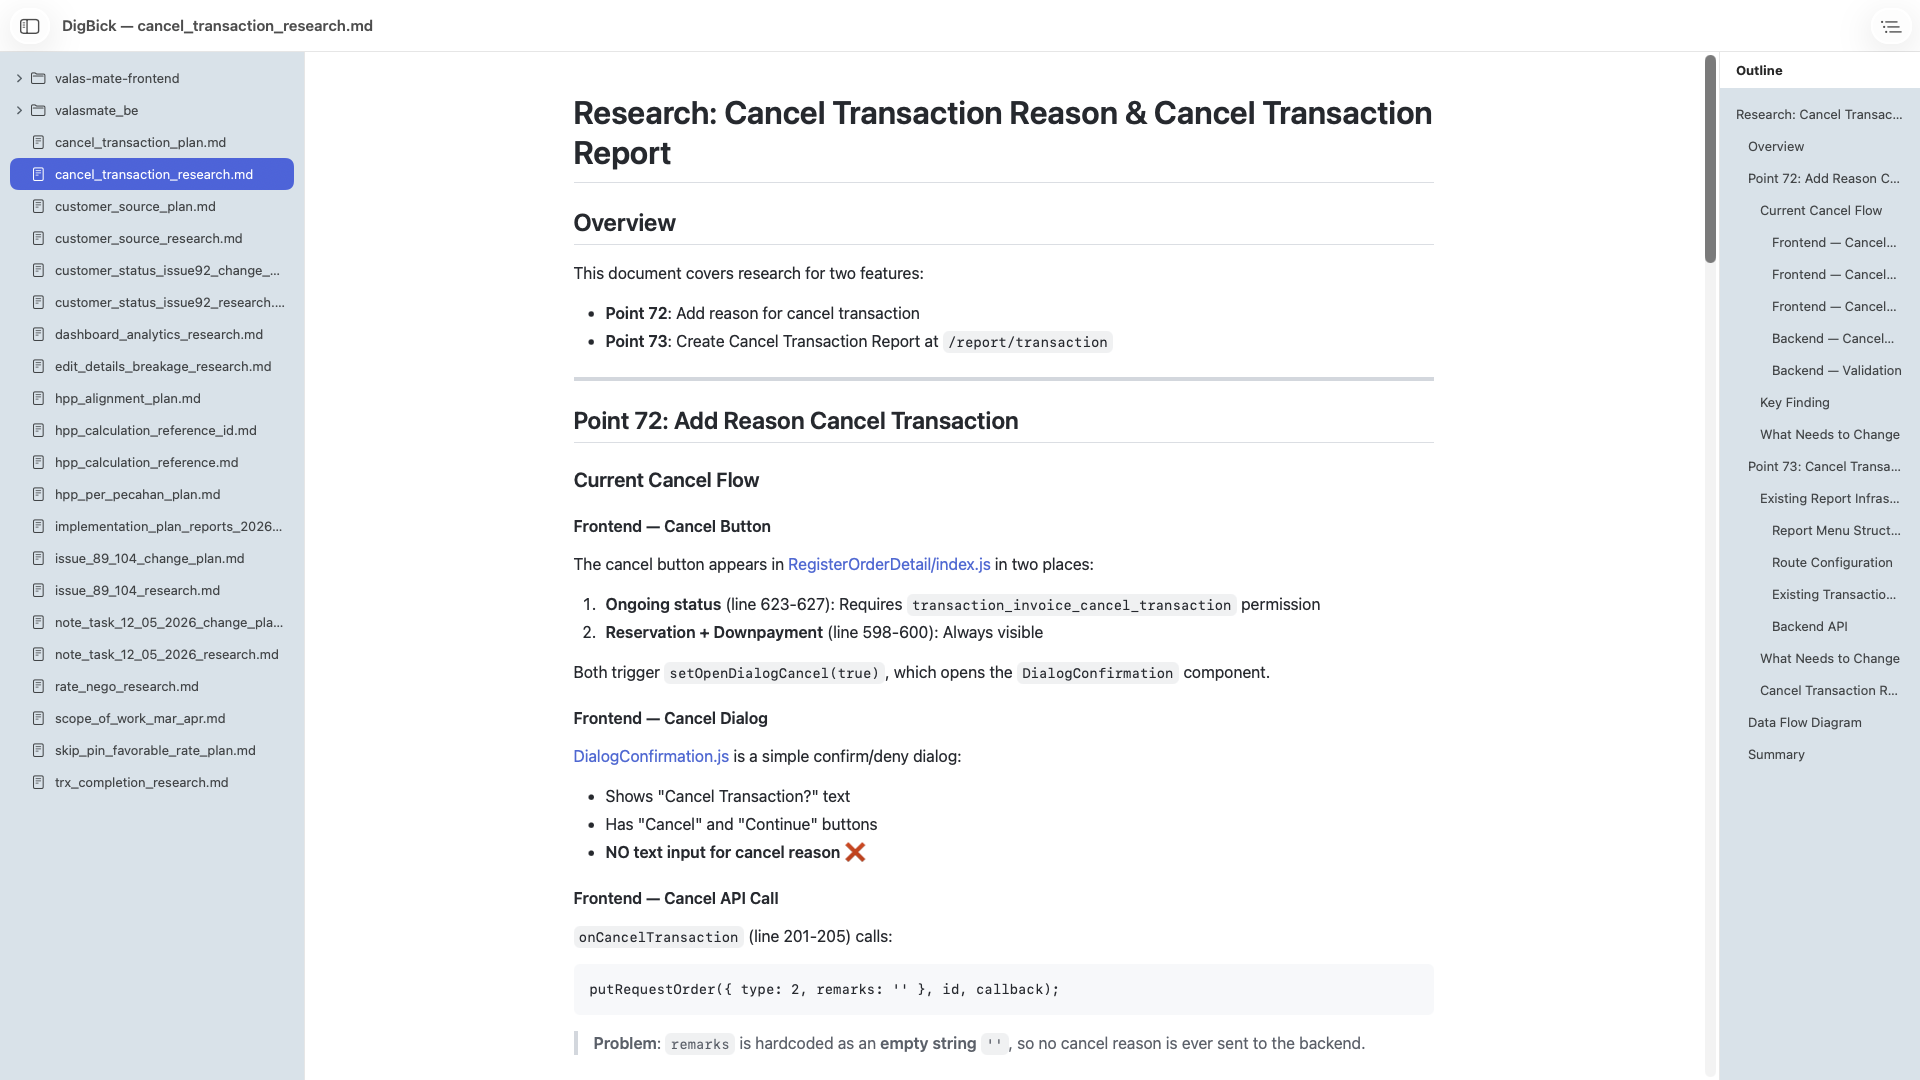
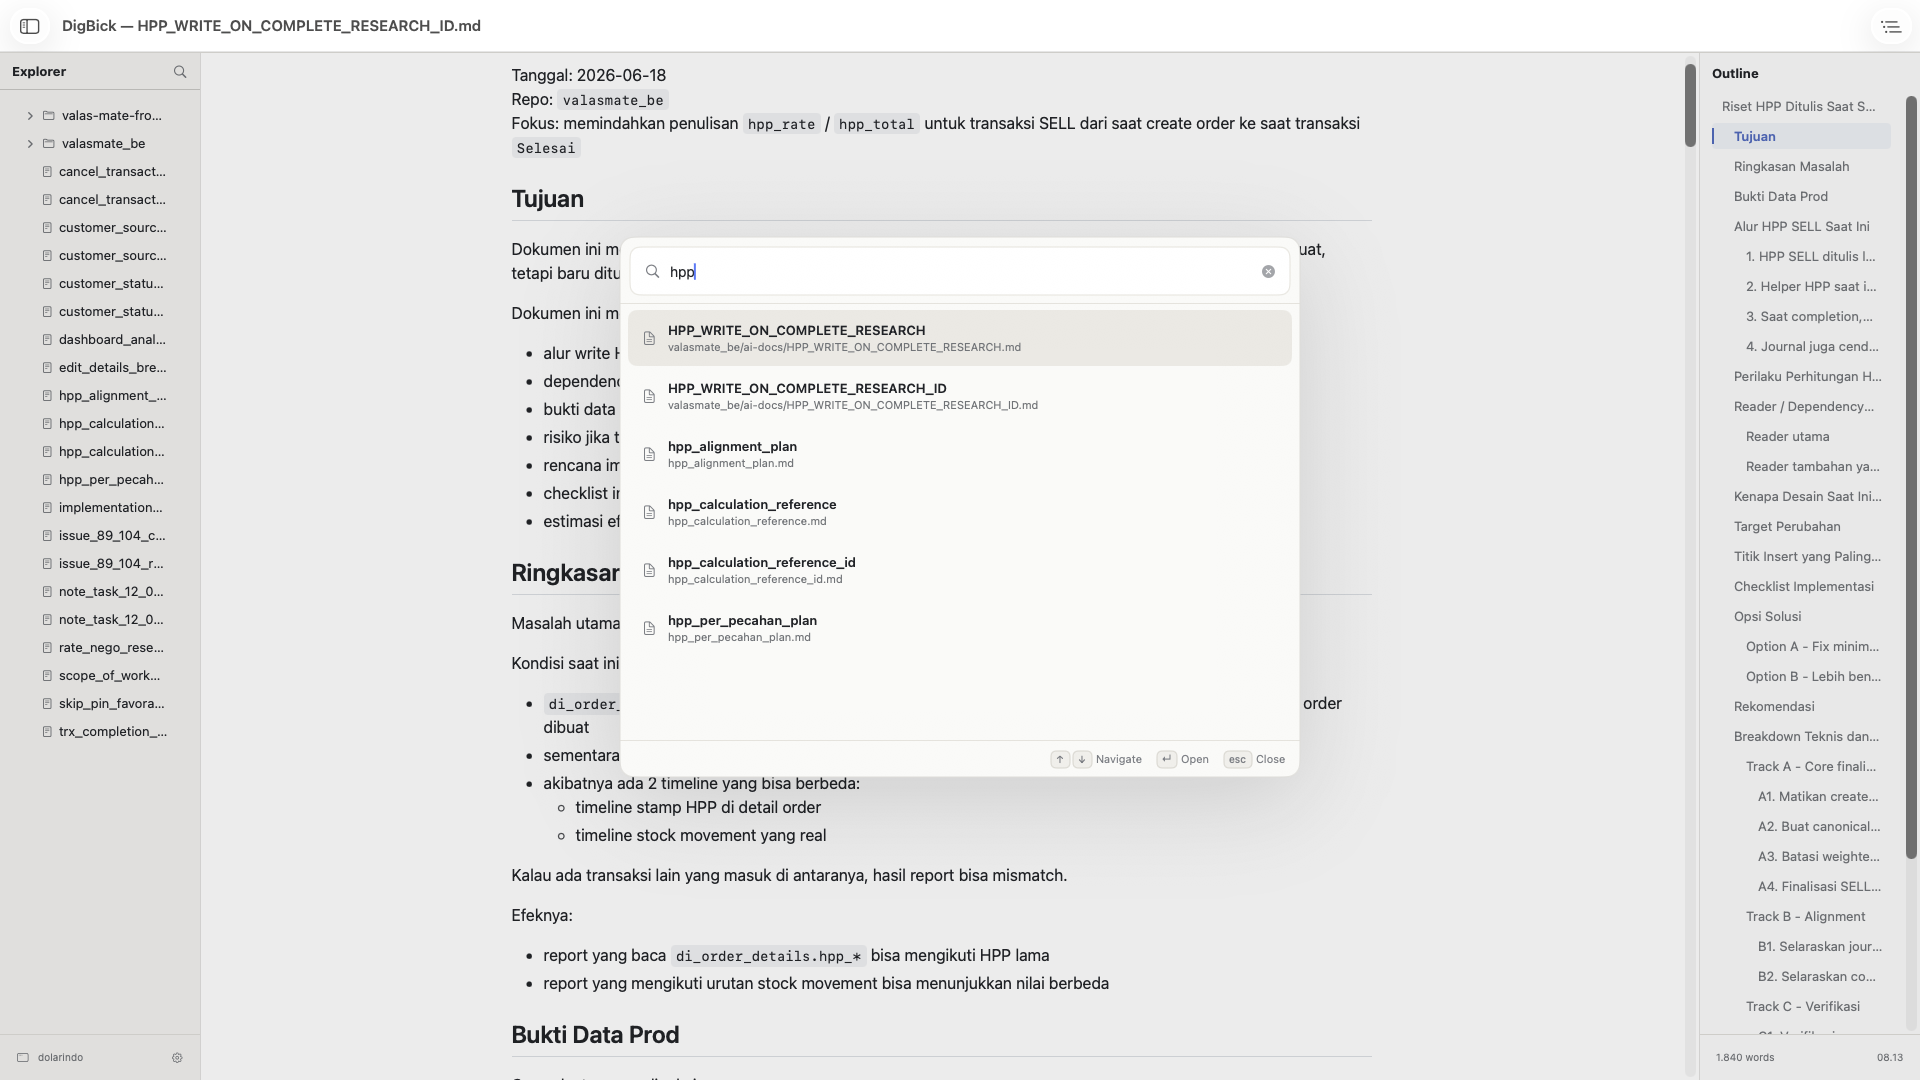
docs: update README and screenshot
- Rewrite README to cover all current features
- Add Quick Open (Cmd+P) and Find in Document (Cmd+F) documentation
- Add keyboard shortcuts reference table
- Document workspace file tree and search behavior
- Add scroll memory, reading mode, and collapsible folder notes
- Update screenshot

diff --git a/README.md b/README.md
@@ -1,52 +1,99 @@
 # DigBick
 
-A tiny Markdown viewer for macOS.
+A fast, beautiful Markdown viewer for macOS.
+
+![DigBick Screenshot](screenshot.png)
 
 ## What it is
 
 DigBick is Preview.app for Markdown.
 
-No vaults.  
-No plugins.  
-No editing.  
-Just Markdown.
+No vaults. No plugins. No editing. No AI. No sync. No telemetry.  
+Just Markdown, rendered beautifully.
 
-![DigBick Screenshot](screenshot.png)
+---
 
 ## Features
 
-- **Viewer Only:** No editing, no plugins, no vaults. Just pure Markdown.
-- **Formats:** Open `.md`, `.markdown`, and `.mdown`.
-- **Workspaces:** Drag a folder or press `⇧⌘O` to open a file tree sidebar.
-- **Table of Contents:** Outline sidebar with clickable headings (toggle with `⌘T`).
-- **Beautiful Rendering:** GitHub-inspired Markdown styling with dark mode support.
-- **Local Assets:** Perfectly resolves local images relative to your document.
-- **Auto Reload:** Instantly updates when the file is modified externally.
-- **Native Polish:** Lightweight macOS interface, fast search, and zero telemetry.
+### Core Viewer
+- **Viewer Only** — no editing, no plugins, no vaults
+- **Formats** — opens `.md`, `.markdown`, and `.mdown`
+- **GitHub-style rendering** — clean typography, code blocks, tables, task lists
+- **Dark mode** — full system dark/light mode support
+- **Local assets** — resolves local images relative to the document
+- **Auto reload** — instantly updates when the file changes externally
+
+### Workspace
+- **File sidebar** — open any folder as a workspace (`⇧⌘O`), browse the Markdown file tree
+- **Collapsible folders** — tree defaults collapsed; expand manually, state is preserved
+- **Table of Contents** — outline sidebar with clickable headings (`⌘T`)
+- **Scroll memory** — remembers your scroll position per file
+
+### Search
+- **Quick Open** (`⌘P`) — command palette to find any Markdown file by name or path
+  - Type a filename to search by name
+  - Type a `/` to search by relative path (e.g. `docs/setup`)
+  - Keyboard navigation: `↑ ↓` move, `↵` open, `esc` close
+- **Find in Document** (`⌘F`) — search text inside the currently open rendered document
+  - `⌘G` / `⇧⌘G` to jump between matches
+  - `esc` closes the find bar and clears highlights
+
+### Design
+- Warm neutral macOS palette — not a web app wrapped in a window
+- Responsive Quick Open palette scales to window and fullscreen size
+- Reading Mode — strips all sidebars for focused reading
+- Zero telemetry, zero analytics, zero network requests
+
+---
 
 ## Getting Started
 
 ### Quick Build (No Xcode Required)
-If you have the macOS Command Line Tools installed, you can compile the app instantly:
+
+If you have macOS Command Line Tools installed:
 
 ```sh
 ./build.sh
 ```
-This will generate `DigBick.app` right in the folder. Double-click it to run!
+
+This generates `DigBick.app` in the project folder. Double-click to run.
 
 ### Xcode Build
-You can also open the included `DigBick.xcodeproj` in Xcode, select the `DigBick` scheme targeting "My Mac", and press `⌘R`.
+
+Open `DigBick.xcodeproj`, select the `DigBick` scheme targeting **My Mac**, and press `⌘R`.
+
+---
+
+## Keyboard Shortcuts
+
+| Shortcut | Action |
+|---|---|
+| `⌘P` | Quick Open — search files by name or path |
+| `⌘F` | Find in document |
+| `⌘G` | Find next match |
+| `⇧⌘G` | Find previous match |
+| `⌘T` | Toggle Table of Contents sidebar |
+| `⇧⌘O` | Open workspace folder |
+| `⌘R` | Reload current file |
+
+---
 
 ## Privacy
 
-DigBick does not collect analytics, telemetry, or personal data. All parsing and rendering happens locally on your device.
+DigBick does not collect analytics, telemetry, or personal data.  
+All parsing and rendering happens locally on your device.  
+No network requests are made.
+
+---
 
 ## Support
 
 DigBick is, and always will be, completely free and open-source.  
-If you find it useful and want to support its continued development, you can buy me a coffee!
+If you find it useful, you can buy me a coffee!
 
 [![Donate via PayPal](https://img.shields.io/badge/Donate-PayPal-00457C.svg?style=for-the-badge&logo=paypal)](https://paypal.me/satriyobud)
+
+---
 
 ## License
 